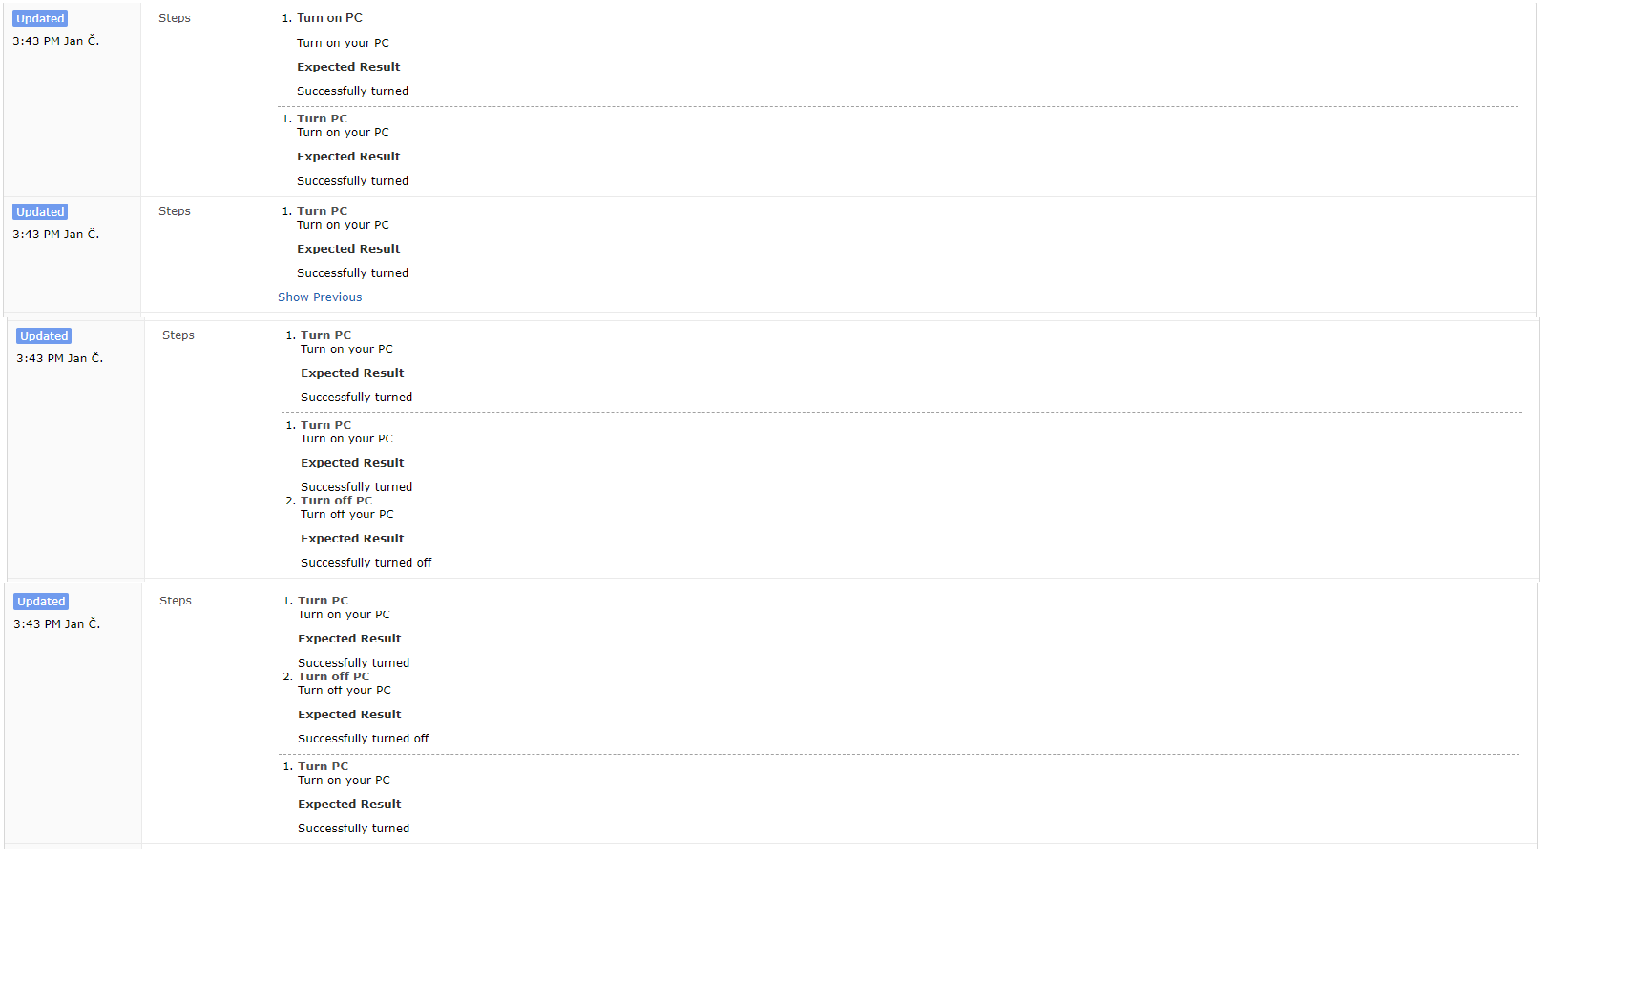
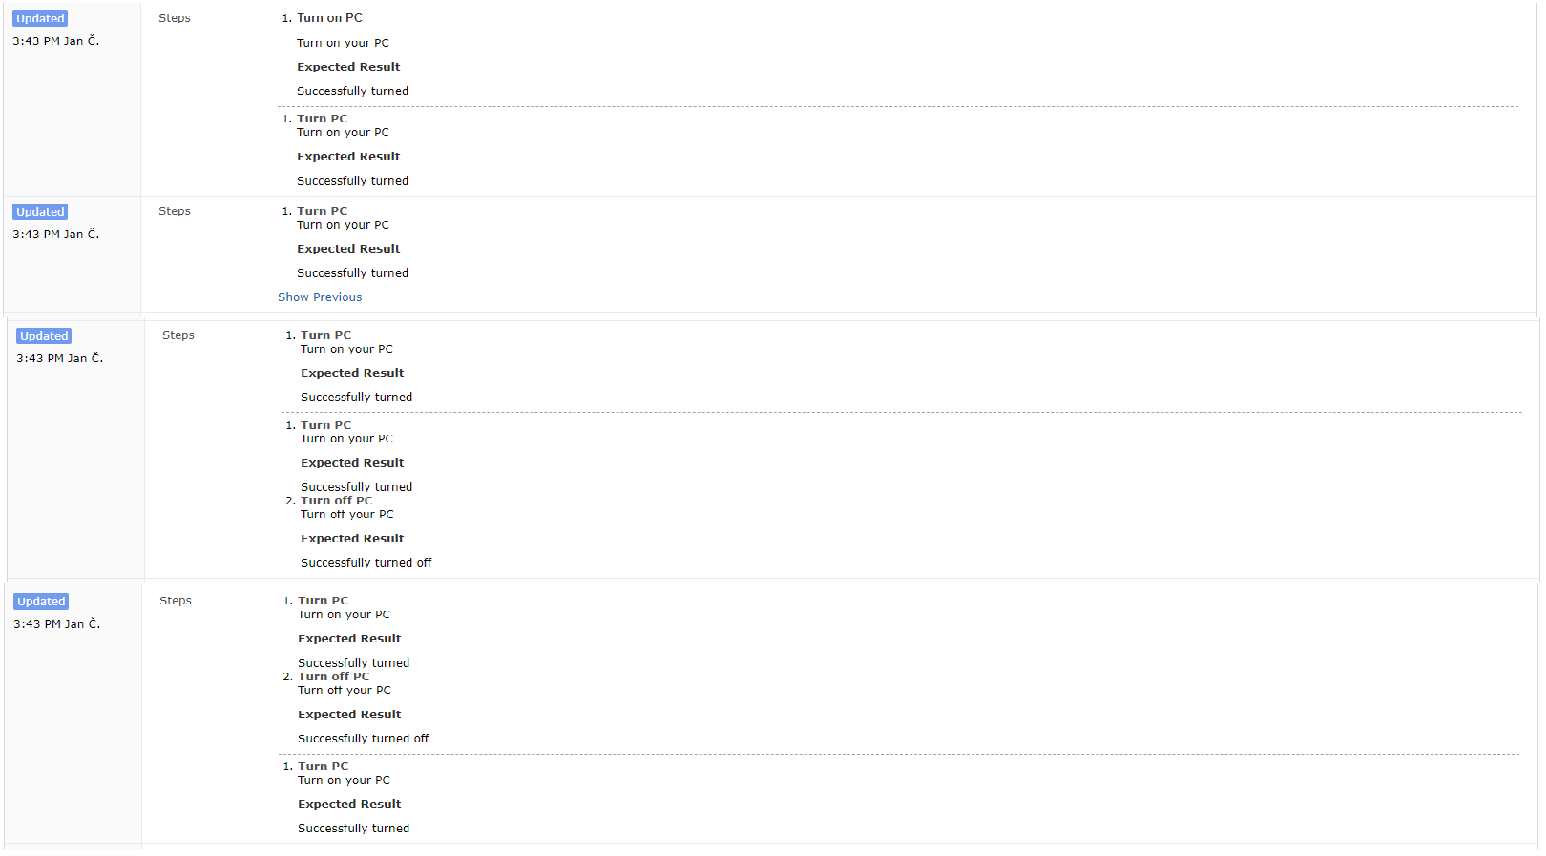
made img smaller and repaired path to download

diff --git a/README.md b/README.md
@@ -16,7 +16,7 @@ After add-on:
 [TestRail Historian v1.0](https://addons.mozilla.org/cs/firefox/addon/testrail-historian/)
 
 ## Add-on for Chrome
-* download file [TestRail Historian v1.0](https://github.com/cernyjan/TestRail-Historian/testrail_historian-1.0-an+fx.xpi)
+* download file [TestRail Historian v1.0](https://github.com/cernyjan/TestRail-Historian/blob/master/testrail_historian-1.0-an+fx.xpi)
 * extract it on the file system
 * open Extensions page in browser
 * click the “Developer mode” checkbox to activate it
